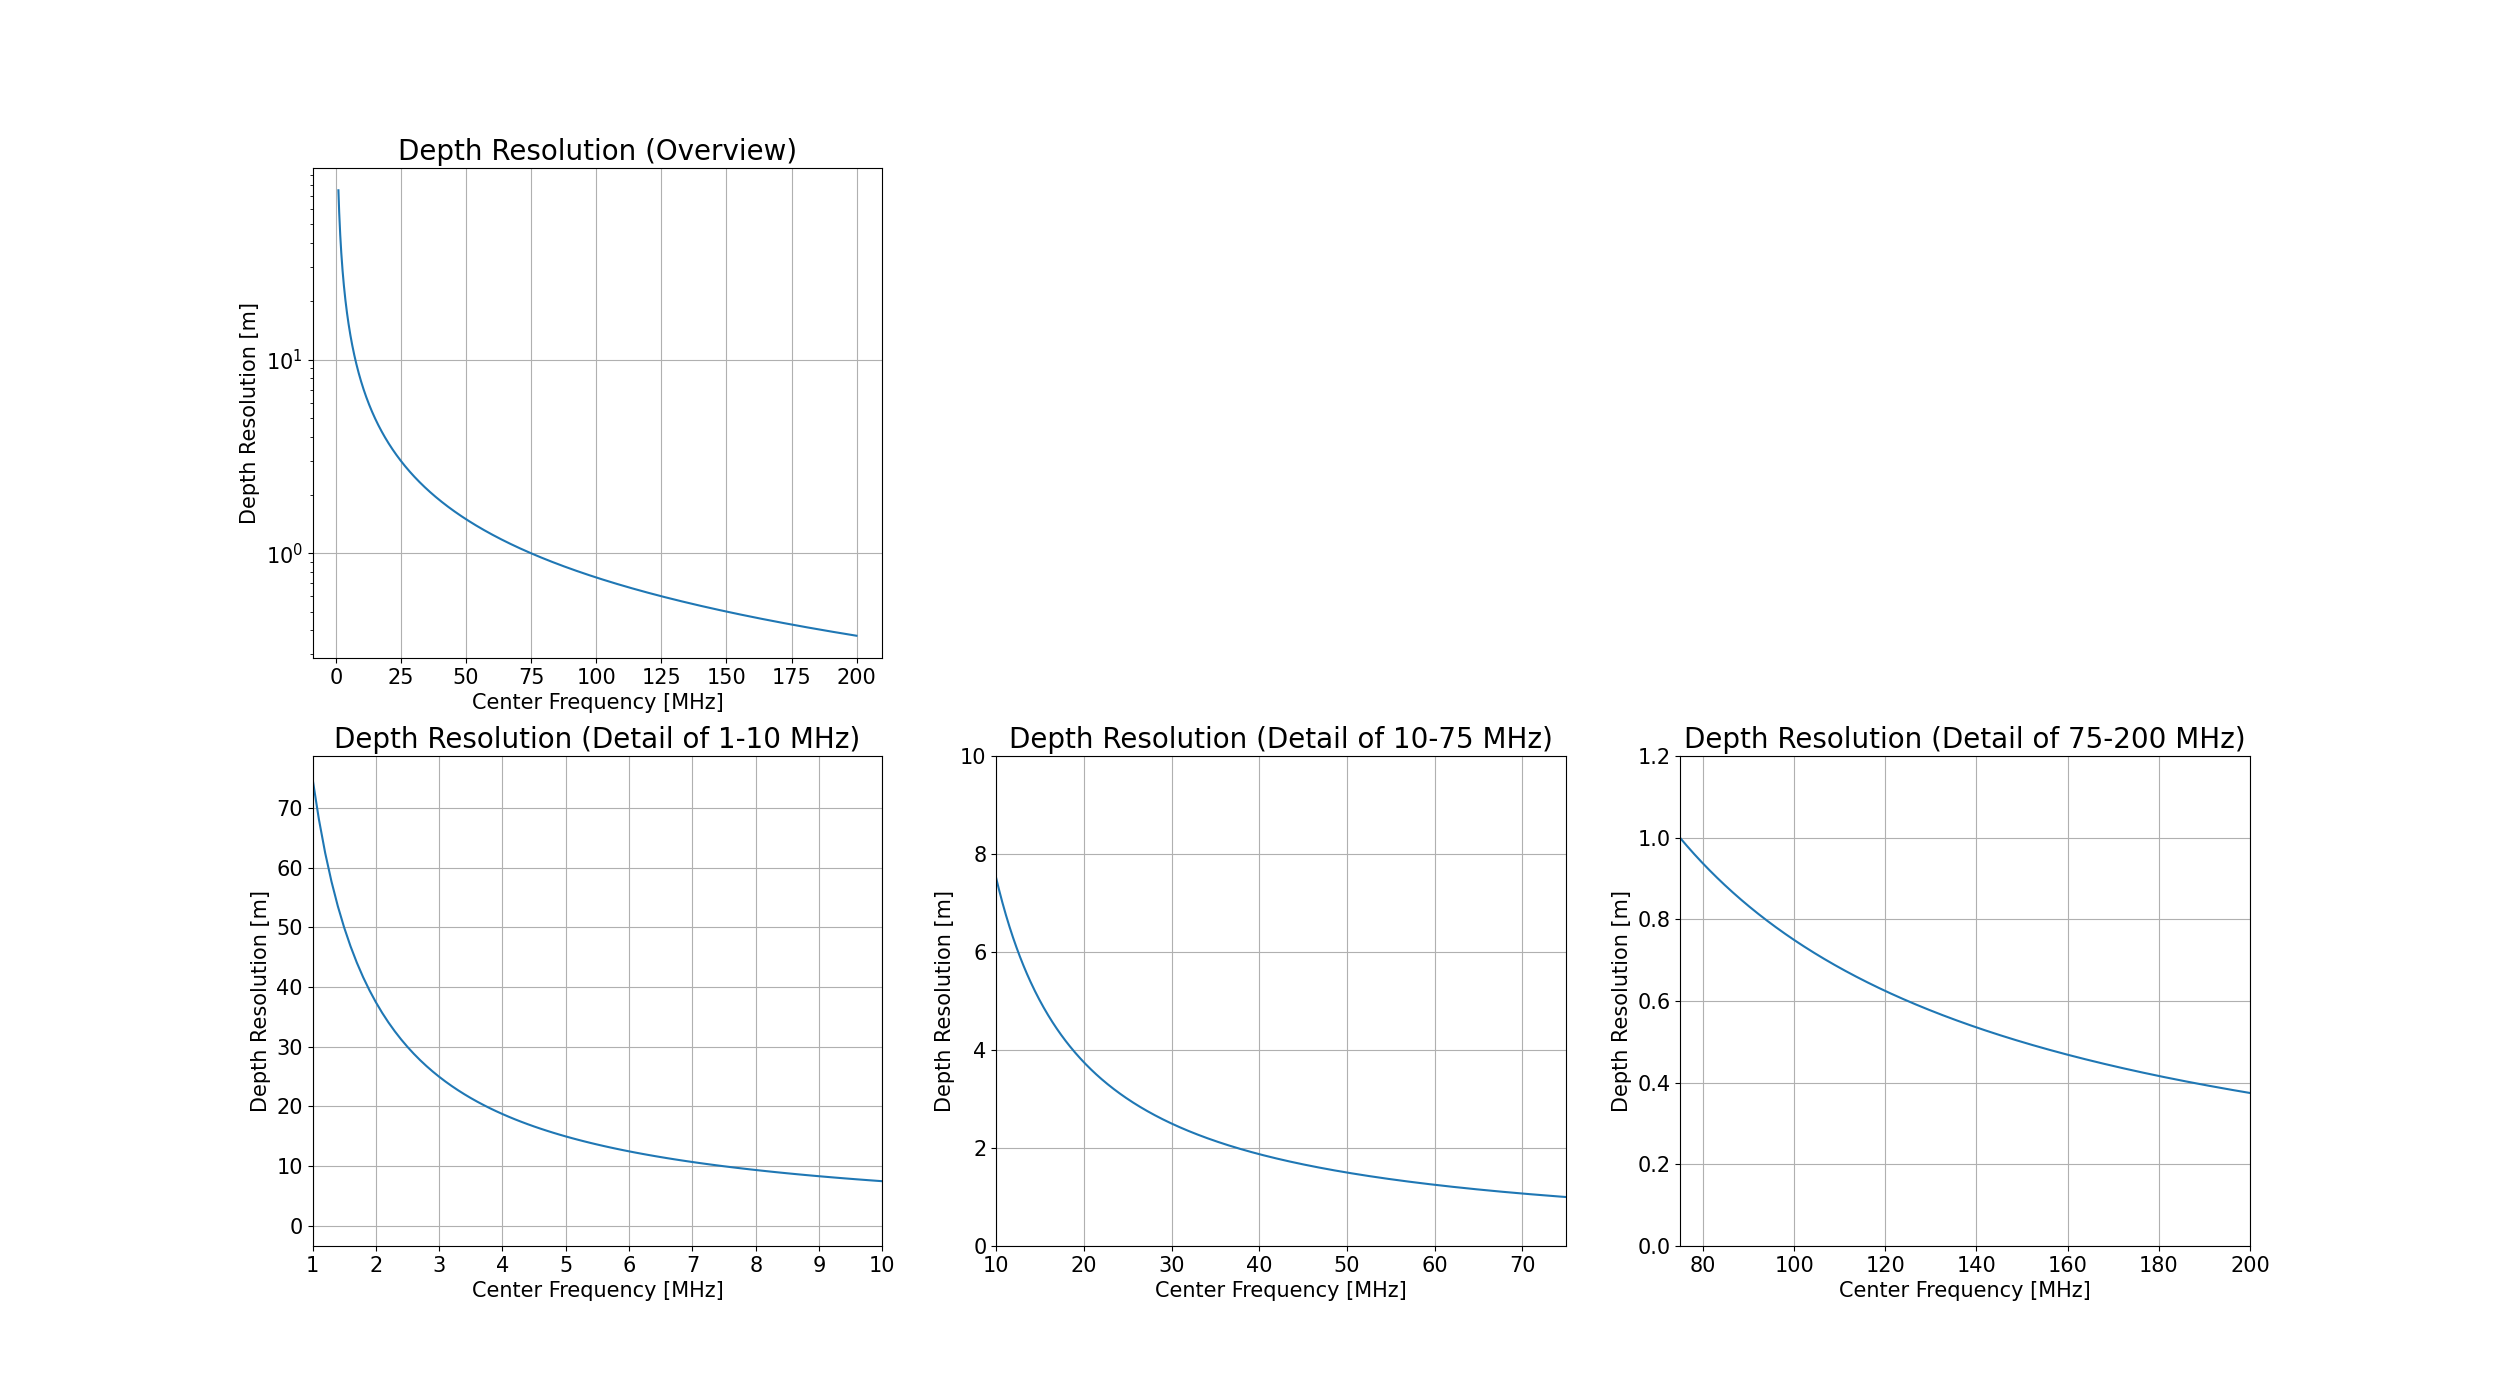
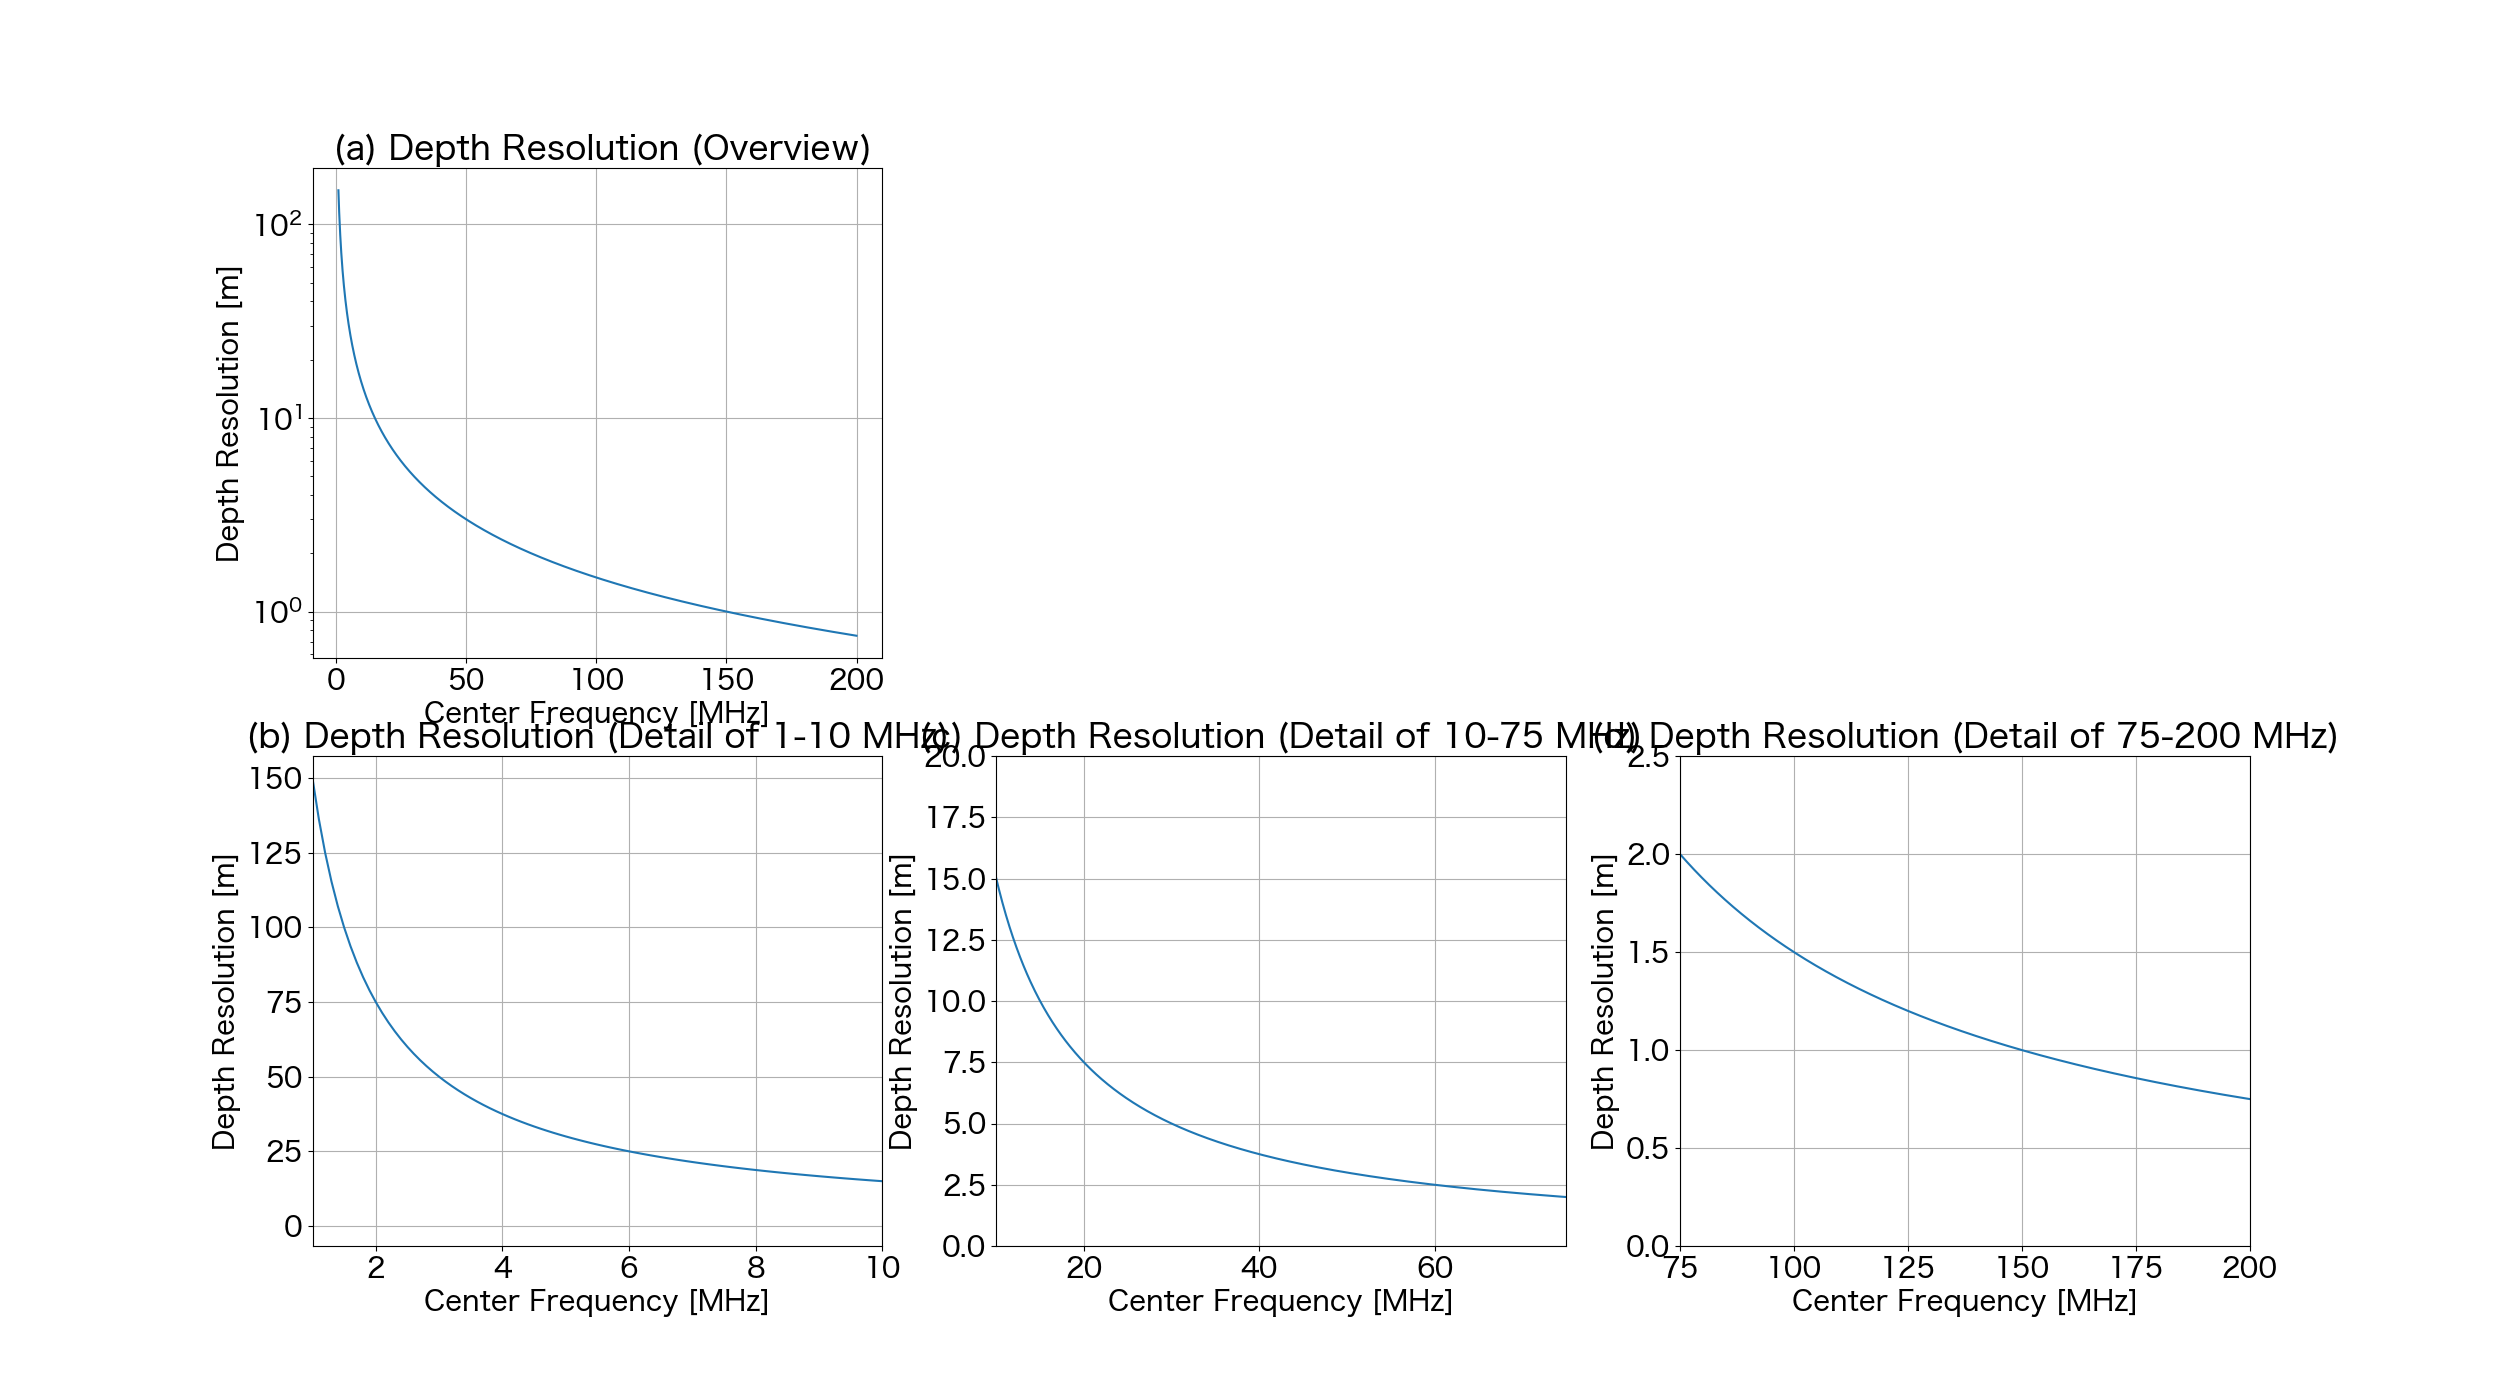
delta fを0.5f0に変更

diff --git a/depth_resolution.py b/depth_resolution.py
@@ -14,9 +14,9 @@ c = 299792458 # [m/s]
 
 f0 = np.arange(1, 200, 0.1) # 中心周波数
 
-dR1 = c / (2*np.sqrt(epsilon1) * f0*10**6)
-dR2 = c / (2*np.sqrt(epsilon2) * f0*10**6)
-dR3 = c / (2*np.sqrt(epsilon3) * f0*10**6)
+dR1 = c / (2*np.sqrt(epsilon1) * f0 *10**6 * 0.5)
+dR2 = c / (2*np.sqrt(epsilon2) * f0 *10**6 * 0.5)
+dR3 = c / (2*np.sqrt(epsilon3) * f0 *10**6 * 0.5)
 
 
 #描画
@@ -26,10 +26,10 @@ plt.plot(f0, dR1, label=r'$\varepsilon _r = 4.0$')
 #plt.plot(f0, dR2, label=r'$\varepsilon_r = 5.0$')
 #plt.plot(f0, dR3, label=r'$\varepsilon_r = 6.0$')
 
-plt.title('Depth Resolution (Overview)', fontsize=20)
-plt.xlabel('Center Frequency [MHz]', fontsize=15)
-plt.ylabel('Depth Resolution [m]', fontsize=15)
-plt.tick_params(labelsize=15)
+plt.title(' (a) Depth Resolution (Overview)', fontsize=24)
+plt.xlabel('Center Frequency [MHz]', fontsize=20)
+plt.ylabel('Depth Resolution [m]', fontsize=20)
+plt.tick_params(labelsize=20)
 plt.yscale('log')
 plt.grid()
 
@@ -37,34 +37,34 @@ plt.grid()
 plt.subplot(2, 3, 4)
 plt.plot(f0, dR1, label=r'$\varepsilon _r = 4.0$')
 
-plt.title('Depth Resolution (Detail of 1-10 MHz)', fontsize=20)
-plt.xlabel('Center Frequency [MHz]', fontsize=15)
-plt.ylabel('Depth Resolution [m]', fontsize=15)
-plt.tick_params(labelsize=15)
+plt.title('(b) Depth Resolution (Detail of 1-10 MHz)', fontsize=24)
+plt.xlabel('Center Frequency [MHz]', fontsize=20)
+plt.ylabel('Depth Resolution [m]', fontsize=20)
+plt.tick_params(labelsize=20)
 plt.xlim(1, 10)
 plt.grid()
 
 plt.subplot(2, 3, 5)
 plt.plot(f0, dR1, label=r'$\varepsilon _r = 4.0$')
 
-plt.title('Depth Resolution (Detail of 10-75 MHz)', fontsize=20)
-plt.xlabel('Center Frequency [MHz]', fontsize=15)
-plt.ylabel('Depth Resolution [m]', fontsize=15)
-plt.tick_params(labelsize=15)
+plt.title('(c) Depth Resolution (Detail of 10-75 MHz)', fontsize=24)
+plt.xlabel('Center Frequency [MHz]', fontsize=20)
+plt.ylabel('Depth Resolution [m]', fontsize=20)
+plt.tick_params(labelsize=20)
 plt.xlim(10, 75)
-plt.ylim(0, 10)
+plt.ylim(0, 20)
 plt.grid()
 
 
 plt.subplot(2, 3, 6)
 plt.plot(f0, dR1, label=r'$\varepsilon _r = 4.0$')
 
-plt.title('Depth Resolution (Detail of 75-200 MHz)', fontsize=20)
-plt.xlabel('Center Frequency [MHz]', fontsize=15)
-plt.ylabel('Depth Resolution [m]', fontsize=15)
-plt.tick_params(labelsize=15)
+plt.title('(d) Depth Resolution (Detail of 75-200 MHz)', fontsize=24)
+plt.xlabel('Center Frequency [MHz]', fontsize=20)
+plt.ylabel('Depth Resolution [m]', fontsize=20)
+plt.tick_params(labelsize=20)
 plt.xlim(75, 200)
-plt.ylim(0, 1.2)
+plt.ylim(0, 2.5)
 plt.grid()
 
 #グラフの体裁
